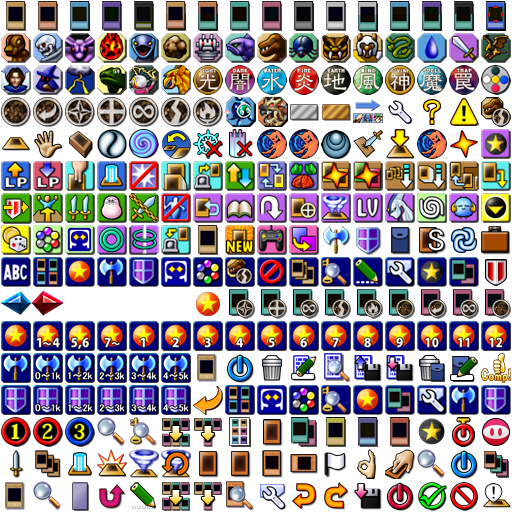
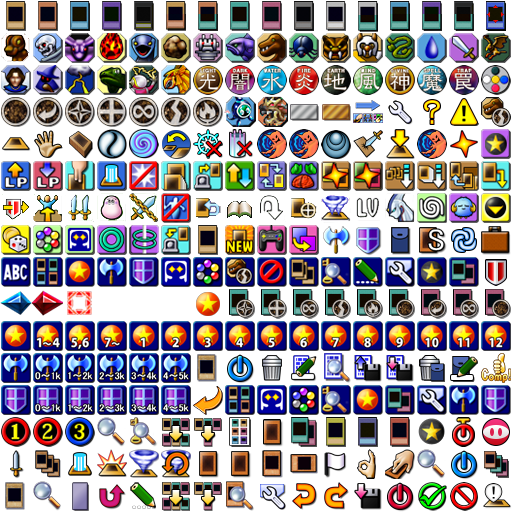
changes

diff --git a/js/createCard.js b/js/createCard.js
@@ -166,7 +166,7 @@ function levelOrRankOrLink(modalId, card ) {
   if (card.type=="Link Monster"){
     // console.log("link here")
     document.getElementById(modalId).innerHTML += `
-    <span> <span class="iconsSprite cardLink"></span>  ${card.linkval} </span>
+    <span> <span class="iconsSprite linkRate"></span>  ${card.linkval} </span>
     `
   } else if (card.type == "XYZ Monster" || card.type == "XYZ Pendulum Effect Monster") {
     // console.log("xyz here")
@@ -254,11 +254,22 @@ function whichType(modalId, type, card) {
         }
     } else {
         // console.log("type is "+type)
-        if (type == "Normal Monster") {
-            document.getElementById(modalId).innerHTML += `
-          <span> <span class="iconsSprite normalMonster"></span>  ${card.type.toUpperCase()} </span>
-          `
+        if (type == "Toon Monster") {
+          document.getElementById(modalId).innerHTML += `
+        <span> <span class="iconsSprite toonMonster"></span>  TOON </span>
+        `
+        if (card.misc_info[0].has_effect == 1) {
+          document.getElementById(modalId).innerHTML += `  
+        <span> <span class="iconsSprite effectMonster"></span>  EFFECT MONSTER </span>
+         `  
         }
+      }
+
+      if (type == "Normal Monster") {
+          document.getElementById(modalId).innerHTML += `
+        <span> <span class="iconsSprite normalMonster"></span>  ${card.type.toUpperCase()} </span>
+        `
+      }
 
         if (type == "Effect Monster" || type == "Flip Effect Monster" || type == "Flip Effect Monster") {
             document.getElementById(modalId).innerHTML += `
@@ -280,7 +291,7 @@ function whichType(modalId, type, card) {
 
         if (type == "Synchro Monster" || type == "Synchro Tuner Monster") {
             document.getElementById(modalId).innerHTML += `
-          <span> <span class="iconsSprite synchroMonster"></span>  ${card.type.toUpperCase()} </span>
+          <span> <span class="iconsSprite synchroMonster"></span> <span class="iconsSprite tuner"></span>  ${card.type.toUpperCase()} </span>
           `
         }
 
@@ -291,8 +302,9 @@ function whichType(modalId, type, card) {
         }
 
         if (type == "Gemini Monster") {
+          card.type = "Gemini"
             document.getElementById(modalId).innerHTML += `
-          <span> <span class="iconsSprite geminiMonster"></span>  ${card.type.toUpperCase()} </span>
+          <span> <span class="iconsSprite geminiMonster gemini"></span>  ${card.type.toUpperCase()} EFFECT MONSTER </span>
           `
         }
 
@@ -620,10 +632,10 @@ function printCardSets(modalId, card) {
           <table class="table table-bordered" >
           <thead>
             <tr>
-              <th scope="col">Set</th>
-              <th scope="col">Rarity</th>
-              <th scope="col">Set Code</th>
-              <th scope="col" data-toggle="tooltip" data-placement="top" title="Shown price is the average price for that card of that specific set, the price is expresed in US dolars">Price</th>
+              <th scope="col" class="tableHead">Set</th>
+              <th scope="col"class="tableHead">Rarity</th>
+              <th scope="col"class="tableHead">Set Code</th>
+              <th scope="col"class="tableHead" data-toggle="tooltip" data-placement="top" title="Shown price is the average price for that card of that specific set, the price is expresed in US dolars">Price</th>
             </tr>
           </thead>
           
@@ -639,10 +651,10 @@ function printCardSets(modalId, card) {
 
         document.getElementById(`table_${modalId}`).innerHTML += `
            <tr>
-             <th scope="row"  class="cardSet" id="set_${card.id}" onclick="searchBySet('${card.card_sets[i].set_name}')" data-bs-toggle="modal" data-bs-target="#card_${card.id}" style="cursor: pointer">${card.card_sets[i].set_name.toUpperCase()}</th>
-             <td>${card.card_sets[i].set_rarity_code} ${card.card_sets[i].set_rarity}</td>
-             <td> ${card.card_sets[i].set_code}</td>
-             <td>$ ${card.card_sets[i].set_price}</td>
+             <th scope="row"  class="cardSet tableBody" id="set_${card.id}" onclick="searchBySet('${card.card_sets[i].set_name}')" data-bs-toggle="modal" data-bs-target="#card_${card.id}" style="cursor: pointer">${card.card_sets[i].set_name.toUpperCase()}</th>
+             <td class="tableBody">${card.card_sets[i].set_rarity_code} ${card.card_sets[i].set_rarity}</td>
+             <td class="tableBody"  onclick="changeCardPicture()"> ${card.card_sets[i].set_code}</td>
+             <td class="tableBody">$ ${card.card_sets[i].set_price}</td>
            </tr>
     
     `

diff --git a/css/styles.css b/css/styles.css
@@ -319,9 +319,25 @@ footer {
     color: #fff;
     text-align: center;
     vertical-align: middle;
-    font-family: CardTitle;
-    font-size: 18pt;
 }
+
+
+.tableHead {
+    font-family: CardTable;
+    font-size: 15pt;
+    font-weight: 100;
+}
+
+.tableBody{
+    font-family: CardTable;
+    font-size: 15pt;
+    font-weight: 100;
+}
+
+.modal-content table th, .modal-content table td {
+    margin: 0px !important;
+    padding: 0px !important;
+} 
 
 .cardSet {
     color: rgb(139, 212, 80);
@@ -402,7 +418,7 @@ footer {
 .cardSubTitle {
     padding: 0px !important;
     font-family: CardTable;
-    font-size: 13pt;
+    font-size: 14pt;
     font-weight: 400;
     align-items: center;
 }
@@ -415,7 +431,7 @@ footer {
 }
 
 .cardDescription {
-    font-size: 13pt;
+    font-size: 16pt;
     font-weight: lighter;
 }
 
@@ -454,6 +470,14 @@ footer {
 
 .geminiMonster {
     background-position: -160px 0px;
+}
+
+.gemini {
+    background-position: -256px -192px;
+}
+
+.toonMonster{
+    background-position: -224px -192px;
 }
 
 .ritualMonster {
@@ -701,6 +725,11 @@ footer {
     background-position: 0px -288px;
 }
 
+/* Link Value */
+.linkRate {
+    background-position: -64px -288px;
+}
+
 /* BAN STATUS  */
 
 .unlimited {
@@ -829,14 +858,19 @@ footer {
 }
 
 
-@media (max-width: 740px) { 
+@media (max-width: 947px) { 
+
     .card {
-        width: 100px;
+        width: 150px;
     }
 
     .cardHeader {
         flex-direction: column;
 
+    }
+    .modal-body .cardHeader img{
+        width: 320px;
+        padding: 1%;
     }
 
 
